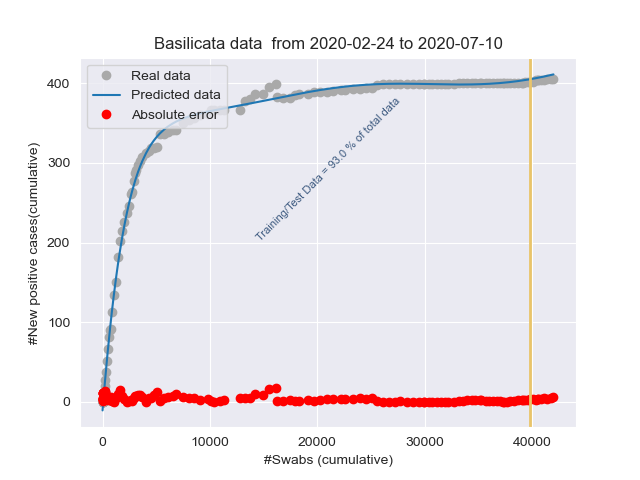
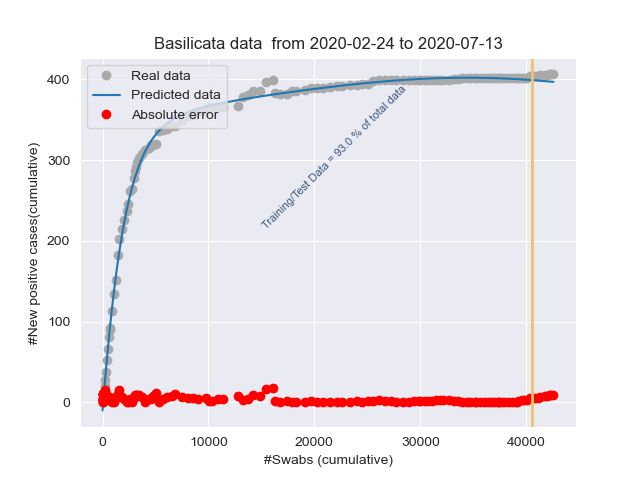
Add files via upload

diff --git a/stat_Friuli Venezia Giulia.html b/stat_Friuli Venezia Giulia.html
@@ -1,1 +1,1 @@
-<!DOCTYPE html><html lang="it"><head><title>Results</title><meta charset="utf-8"><meta name="viewport" content="width=device-width, initial-scale=1"><link rel="stylesheet" href="bootstrap.min.css"><script src="https://ajax.googleapis.com/ajax/libs/jquery/3.4.1/jquery.min.js"></script><script src="https://maxcdn.bootstrapcdn.com/bootstrap/3.4.1/js/bootstrap.min.js"></script></head><body><h3>Day: 2020-07-10</h3><p class="lead my-3">New positive cases: <b>1</b></p><p class="lead my-3">Variation of positive cases: <b>0.0%</b></p><p class="lead my-3">Number of swabs: <b>2353.0</b></p><p class="lead my-3">Variation of swabs: <b>1.14%</b></p><p class="lead my-3">Postive cases/Swabs: <b>0.04 %</b></p><p class="lead my-3">Number of people admitted to Intensive care: <b>0</b></p><p class="lead my-3">Number of recovered people: <b>-2.0</b></p><p class="lead my-3">Number of dead people: <b>0.0</b></p><h3>Total</h3><p class="lead my-3">Population of  Friuli Venezia Giulia: <b>1215220</b> <a href="http://dati.istat.it/Index.aspx?QueryId=18548" target="_blank">ISTAT data</a></p><p class="lead my-3">Total number of positive cases from 2020-02-24 00:00:00 to 2020-07-10: <b> 3333</b></p><p class="lead my-3">Total number of swabs from 2020-02-24 00:00:00 to 2020-07-10: <b> 209161</b></p><p class="lead my-3">TotalSwabs/Population: <b> 17.21%</b></p></body></html>
+<!DOCTYPE html><html lang="it"><head><title>Results</title><meta charset="utf-8"><meta name="viewport" content="width=device-width, initial-scale=1"><link rel="stylesheet" href="bootstrap.min.css"><script src="https://ajax.googleapis.com/ajax/libs/jquery/3.4.1/jquery.min.js"></script><script src="https://maxcdn.bootstrapcdn.com/bootstrap/3.4.1/js/bootstrap.min.js"></script></head><body><h3>Day: 2020-07-13</h3><p class="lead my-3">New positive cases: <b>0</b></p><p class="lead my-3">Variation of positive cases: <b>0.0%</b></p><p class="lead my-3">Number of swabs: <b>518.0</b></p><p class="lead my-3">Variation of swabs: <b>0.24%</b></p><p class="lead my-3">Postive cases/Swabs: <b>0.0 %</b></p><p class="lead my-3">Number of people admitted to Intensive care: <b>0</b></p><p class="lead my-3">Number of recovered people: <b>-1.0</b></p><p class="lead my-3">Number of dead people: <b>0.0</b></p><h3>Total</h3><p class="lead my-3">Population of  Friuli Venezia Giulia: <b>1215220</b> <a href="http://dati.istat.it/Index.aspx?QueryId=18548" target="_blank">ISTAT data</a></p><p class="lead my-3">Total number of positive cases from 2020-02-24 00:00:00 to 2020-07-13: <b> 3335</b></p><p class="lead my-3">Total number of swabs from 2020-02-24 00:00:00 to 2020-07-13: <b> 212714</b></p><p class="lead my-3">TotalSwabs/Population: <b> 17.5%</b></p></body></html>

diff --git a/stat_Emilia-Romagna.html b/stat_Emilia-Romagna.html
@@ -1,1 +1,1 @@
-<!DOCTYPE html><html lang="it"><head><title>Results</title><meta charset="utf-8"><meta name="viewport" content="width=device-width, initial-scale=1"><link rel="stylesheet" href="bootstrap.min.css"><script src="https://ajax.googleapis.com/ajax/libs/jquery/3.4.1/jquery.min.js"></script><script src="https://maxcdn.bootstrapcdn.com/bootstrap/3.4.1/js/bootstrap.min.js"></script></head><body><h3>Day: 2020-07-10</h3><p class="lead my-3">New positive cases: <b>53</b></p><p class="lead my-3">Variation of positive cases: <b>82.76%</b></p><p class="lead my-3">Number of swabs: <b>4182.0</b></p><p class="lead my-3">Variation of swabs: <b>0.78%</b></p><p class="lead my-3">Postive cases/Swabs: <b>1.27 %</b></p><p class="lead my-3">Number of people admitted to Intensive care: <b>10</b></p><p class="lead my-3">Number of recovered people: <b>6.0</b></p><p class="lead my-3">Number of dead people: <b>0.0</b></p><h3>Total</h3><p class="lead my-3">Population of  Emilia-Romagna: <b>4459477</b> <a href="http://dati.istat.it/Index.aspx?QueryId=18548" target="_blank">ISTAT data</a></p><p class="lead my-3">Total number of positive cases from 2020-02-24 00:00:00 to 2020-07-10: <b> 28841</b></p><p class="lead my-3">Total number of swabs from 2020-02-24 00:00:00 to 2020-07-10: <b> 540614</b></p><p class="lead my-3">TotalSwabs/Population: <b> 12.12%</b></p></body></html>
+<!DOCTYPE html><html lang="it"><head><title>Results</title><meta charset="utf-8"><meta name="viewport" content="width=device-width, initial-scale=1"><link rel="stylesheet" href="bootstrap.min.css"><script src="https://ajax.googleapis.com/ajax/libs/jquery/3.4.1/jquery.min.js"></script><script src="https://maxcdn.bootstrapcdn.com/bootstrap/3.4.1/js/bootstrap.min.js"></script></head><body><h3>Day: 2020-07-13</h3><p class="lead my-3">New positive cases: <b>18</b></p><p class="lead my-3">Variation of positive cases: <b>-74.65%</b></p><p class="lead my-3">Number of swabs: <b>2007.0</b></p><p class="lead my-3">Variation of swabs: <b>0.37%</b></p><p class="lead my-3">Postive cases/Swabs: <b>0.9 %</b></p><p class="lead my-3">Number of people admitted to Intensive care: <b>9</b></p><p class="lead my-3">Number of recovered people: <b>5.0</b></p><p class="lead my-3">Number of dead people: <b>0.0</b></p><h3>Total</h3><p class="lead my-3">Population of  Emilia-Romagna: <b>4459477</b> <a href="http://dati.istat.it/Index.aspx?QueryId=18548" target="_blank">ISTAT data</a></p><p class="lead my-3">Total number of positive cases from 2020-02-24 00:00:00 to 2020-07-13: <b> 28977</b></p><p class="lead my-3">Total number of swabs from 2020-02-24 00:00:00 to 2020-07-13: <b> 549870</b></p><p class="lead my-3">TotalSwabs/Population: <b> 12.33%</b></p></body></html>

diff --git a/stat_Lombardia.html b/stat_Lombardia.html
@@ -1,1 +1,1 @@
-<!DOCTYPE html><html lang="it"><head><title>Results</title><meta charset="utf-8"><meta name="viewport" content="width=device-width, initial-scale=1"><link rel="stylesheet" href="bootstrap.min.css"><script src="https://ajax.googleapis.com/ajax/libs/jquery/3.4.1/jquery.min.js"></script><script src="https://maxcdn.bootstrapcdn.com/bootstrap/3.4.1/js/bootstrap.min.js"></script></head><body><h3>Day: 2020-07-10</h3><p class="lead my-3">New positive cases: <b>135</b></p><p class="lead my-3">Variation of positive cases: <b>13.45%</b></p><p class="lead my-3">Number of swabs: <b>11505.0</b></p><p class="lead my-3">Variation of swabs: <b>1.03%</b></p><p class="lead my-3">Postive cases/Swabs: <b>1.17 %</b></p><p class="lead my-3">Number of people admitted to Intensive care: <b>27</b></p><p class="lead my-3">Number of recovered people: <b>145.0</b></p><p class="lead my-3">Number of dead people: <b>6.0</b></p><h3>Total</h3><p class="lead my-3">Population of  Lombardia: <b>10060574</b> <a href="http://dati.istat.it/Index.aspx?QueryId=18548" target="_blank">ISTAT data</a></p><p class="lead my-3">Total number of positive cases from 2020-02-24 00:00:00 to 2020-07-10: <b> 94899</b></p><p class="lead my-3">Total number of swabs from 2020-02-24 00:00:00 to 2020-07-10: <b> 1126332</b></p><p class="lead my-3">TotalSwabs/Population: <b> 11.2%</b></p></body></html>
+<!DOCTYPE html><html lang="it"><head><title>Results</title><meta charset="utf-8"><meta name="viewport" content="width=device-width, initial-scale=1"><link rel="stylesheet" href="bootstrap.min.css"><script src="https://ajax.googleapis.com/ajax/libs/jquery/3.4.1/jquery.min.js"></script><script src="https://maxcdn.bootstrapcdn.com/bootstrap/3.4.1/js/bootstrap.min.js"></script></head><body><h3>Day: 2020-07-13</h3><p class="lead my-3">New positive cases: <b>94</b></p><p class="lead my-3">Variation of positive cases: <b>22.08%</b></p><p class="lead my-3">Number of swabs: <b>6482.0</b></p><p class="lead my-3">Variation of swabs: <b>0.57%</b></p><p class="lead my-3">Postive cases/Swabs: <b>1.45 %</b></p><p class="lead my-3">Number of people admitted to Intensive care: <b>30</b></p><p class="lead my-3">Number of recovered people: <b>78.0</b></p><p class="lead my-3">Number of dead people: <b>9.0</b></p><h3>Total</h3><p class="lead my-3">Population of  Lombardia: <b>10060574</b> <a href="http://dati.istat.it/Index.aspx?QueryId=18548" target="_blank">ISTAT data</a></p><p class="lead my-3">Total number of positive cases from 2020-02-24 00:00:00 to 2020-07-13: <b> 95137</b></p><p class="lead my-3">Total number of swabs from 2020-02-24 00:00:00 to 2020-07-13: <b> 1149414</b></p><p class="lead my-3">TotalSwabs/Population: <b> 11.42%</b></p></body></html>

diff --git a/stat_Italy.html b/stat_Italy.html
@@ -1,1 +1,1 @@
-<!DOCTYPE html><html lang="it"><head><title>Results</title><meta charset="utf-8"><meta name="viewport" content="width=device-width, initial-scale=1"><link rel="stylesheet" href="bootstrap.min.css"><script src="https://ajax.googleapis.com/ajax/libs/jquery/3.4.1/jquery.min.js"></script><script src="https://maxcdn.bootstrapcdn.com/bootstrap/3.4.1/js/bootstrap.min.js"></script></head><body><h3>Day: 2020-07-10</h3><p class="lead my-3">New positive cases: <b>276</b></p><p class="lead my-3">Variation of positive cases: <b>20.52%</b></p><p class="lead my-3">Number of swabs: <b>47953.0</b></p><p class="lead my-3">Variation of swabs: <b>0.83%</b></p><p class="lead my-3">Postive cases/Swabs: <b>0.58 %</b></p><p class="lead my-3">Number of people admitted to Intensive care: <b>65</b></p><p class="lead my-3">Number of recovered people: <b>295.0</b></p><p class="lead my-3">Number of dead people: <b>12.0</b></p><h3>Total</h3><p class="lead my-3">Population of  Italy: <b>60359546</b> <a href="http://dati.istat.it/Index.aspx?QueryId=18548" target="_blank">ISTAT data</a></p><p class="lead my-3">Total number of positive cases from 2020-02-24 00:00:00 to 2020-07-10: <b> 242677</b></p><p class="lead my-3">Total number of swabs from 2020-02-24 00:00:00 to 2020-07-10: <b> 5854621</b></p><p class="lead my-3">TotalSwabs/Population: <b> 9.7%</b></p></body></html>
+<!DOCTYPE html><html lang="it"><head><title>Results</title><meta charset="utf-8"><meta name="viewport" content="width=device-width, initial-scale=1"><link rel="stylesheet" href="bootstrap.min.css"><script src="https://ajax.googleapis.com/ajax/libs/jquery/3.4.1/jquery.min.js"></script><script src="https://maxcdn.bootstrapcdn.com/bootstrap/3.4.1/js/bootstrap.min.js"></script></head><body><h3>Day: 2020-07-13</h3><p class="lead my-3">New positive cases: <b>169</b></p><p class="lead my-3">Variation of positive cases: <b>-27.78%</b></p><p class="lead my-3">Number of swabs: <b>23933.0</b></p><p class="lead my-3">Variation of swabs: <b>0.4%</b></p><p class="lead my-3">Postive cases/Swabs: <b>0.71 %</b></p><p class="lead my-3">Number of people admitted to Intensive care: <b>65</b></p><p class="lead my-3">Number of recovered people: <b>178.0</b></p><p class="lead my-3">Number of dead people: <b>13.0</b></p><h3>Total</h3><p class="lead my-3">Population of  Italy: <b>60359546</b> <a href="http://dati.istat.it/Index.aspx?QueryId=18548" target="_blank">ISTAT data</a></p><p class="lead my-3">Total number of positive cases from 2020-02-24 00:00:00 to 2020-07-13: <b> 243268</b></p><p class="lead my-3">Total number of swabs from 2020-02-24 00:00:00 to 2020-07-13: <b> 5962744</b></p><p class="lead my-3">TotalSwabs/Population: <b> 9.88%</b></p></body></html>

diff --git a/stat_Piemonte.html b/stat_Piemonte.html
@@ -1,1 +1,1 @@
-<!DOCTYPE html><html lang="it"><head><title>Results</title><meta charset="utf-8"><meta name="viewport" content="width=device-width, initial-scale=1"><link rel="stylesheet" href="bootstrap.min.css"><script src="https://ajax.googleapis.com/ajax/libs/jquery/3.4.1/jquery.min.js"></script><script src="https://maxcdn.bootstrapcdn.com/bootstrap/3.4.1/js/bootstrap.min.js"></script></head><body><h3>Day: 2020-07-10</h3><p class="lead my-3">New positive cases: <b>10</b></p><p class="lead my-3">Variation of positive cases: <b>-37.5%</b></p><p class="lead my-3">Number of swabs: <b>2766.0</b></p><p class="lead my-3">Variation of swabs: <b>0.63%</b></p><p class="lead my-3">Postive cases/Swabs: <b>0.36 %</b></p><p class="lead my-3">Number of people admitted to Intensive care: <b>9</b></p><p class="lead my-3">Number of recovered people: <b>57.0</b></p><p class="lead my-3">Number of dead people: <b>2.0</b></p><h3>Total</h3><p class="lead my-3">Population of  Piemonte: <b>4356406</b> <a href="http://dati.istat.it/Index.aspx?QueryId=18548" target="_blank">ISTAT data</a></p><p class="lead my-3">Total number of positive cases from 2020-02-24 00:00:00 to 2020-07-10: <b> 31485</b></p><p class="lead my-3">Total number of swabs from 2020-02-24 00:00:00 to 2020-07-10: <b> 444443</b></p><p class="lead my-3">TotalSwabs/Population: <b> 10.2%</b></p></body></html>
+<!DOCTYPE html><html lang="it"><head><title>Results</title><meta charset="utf-8"><meta name="viewport" content="width=device-width, initial-scale=1"><link rel="stylesheet" href="bootstrap.min.css"><script src="https://ajax.googleapis.com/ajax/libs/jquery/3.4.1/jquery.min.js"></script><script src="https://maxcdn.bootstrapcdn.com/bootstrap/3.4.1/js/bootstrap.min.js"></script></head><body><h3>Day: 2020-07-13</h3><p class="lead my-3">New positive cases: <b>6</b></p><p class="lead my-3">Variation of positive cases: <b>50.0%</b></p><p class="lead my-3">Number of swabs: <b>1133.0</b></p><p class="lead my-3">Variation of swabs: <b>0.25%</b></p><p class="lead my-3">Postive cases/Swabs: <b>0.53 %</b></p><p class="lead my-3">Number of people admitted to Intensive care: <b>9</b></p><p class="lead my-3">Number of recovered people: <b>10.0</b></p><p class="lead my-3">Number of dead people: <b>1.0</b></p><h3>Total</h3><p class="lead my-3">Population of  Piemonte: <b>4356406</b> <a href="http://dati.istat.it/Index.aspx?QueryId=18548" target="_blank">ISTAT data</a></p><p class="lead my-3">Total number of positive cases from 2020-02-24 00:00:00 to 2020-07-13: <b> 31504</b></p><p class="lead my-3">Total number of swabs from 2020-02-24 00:00:00 to 2020-07-13: <b> 450251</b></p><p class="lead my-3">TotalSwabs/Population: <b> 10.34%</b></p></body></html>

diff --git a/stat_Liguria.html b/stat_Liguria.html
@@ -1,1 +1,1 @@
-<!DOCTYPE html><html lang="it"><head><title>Results</title><meta charset="utf-8"><meta name="viewport" content="width=device-width, initial-scale=1"><link rel="stylesheet" href="bootstrap.min.css"><script src="https://ajax.googleapis.com/ajax/libs/jquery/3.4.1/jquery.min.js"></script><script src="https://maxcdn.bootstrapcdn.com/bootstrap/3.4.1/js/bootstrap.min.js"></script></head><body><h3>Day: 2020-07-10</h3><p class="lead my-3">New positive cases: <b>15</b></p><p class="lead my-3">Variation of positive cases: <b>275.0%</b></p><p class="lead my-3">Number of swabs: <b>1563.0</b></p><p class="lead my-3">Variation of swabs: <b>0.98%</b></p><p class="lead my-3">Postive cases/Swabs: <b>0.96 %</b></p><p class="lead my-3">Number of people admitted to Intensive care: <b>1</b></p><p class="lead my-3">Number of recovered people: <b>29.0</b></p><p class="lead my-3">Number of dead people: <b>0.0</b></p><h3>Total</h3><p class="lead my-3">Population of  Liguria: <b>1550640</b> <a href="http://dati.istat.it/Index.aspx?QueryId=18548" target="_blank">ISTAT data</a></p><p class="lead my-3">Total number of positive cases from 2020-02-24 00:00:00 to 2020-07-10: <b> 10025</b></p><p class="lead my-3">Total number of swabs from 2020-02-24 00:00:00 to 2020-07-10: <b> 160464</b></p><p class="lead my-3">TotalSwabs/Population: <b> 10.35%</b></p></body></html>
+<!DOCTYPE html><html lang="it"><head><title>Results</title><meta charset="utf-8"><meta name="viewport" content="width=device-width, initial-scale=1"><link rel="stylesheet" href="bootstrap.min.css"><script src="https://ajax.googleapis.com/ajax/libs/jquery/3.4.1/jquery.min.js"></script><script src="https://maxcdn.bootstrapcdn.com/bootstrap/3.4.1/js/bootstrap.min.js"></script></head><body><h3>Day: 2020-07-13</h3><p class="lead my-3">New positive cases: <b>1</b></p><p class="lead my-3">Variation of positive cases: <b>inf%</b></p><p class="lead my-3">Number of swabs: <b>390.0</b></p><p class="lead my-3">Variation of swabs: <b>0.24%</b></p><p class="lead my-3">Postive cases/Swabs: <b>0.26 %</b></p><p class="lead my-3">Number of people admitted to Intensive care: <b>0</b></p><p class="lead my-3">Number of recovered people: <b>22.0</b></p><p class="lead my-3">Number of dead people: <b>0.0</b></p><h3>Total</h3><p class="lead my-3">Population of  Liguria: <b>1550640</b> <a href="http://dati.istat.it/Index.aspx?QueryId=18548" target="_blank">ISTAT data</a></p><p class="lead my-3">Total number of positive cases from 2020-02-24 00:00:00 to 2020-07-13: <b> 10032</b></p><p class="lead my-3">Total number of swabs from 2020-02-24 00:00:00 to 2020-07-13: <b> 163409</b></p><p class="lead my-3">TotalSwabs/Population: <b> 10.54%</b></p></body></html>

diff --git a/stat_P.A. Bolzano.html b/stat_P.A. Bolzano.html
@@ -1,1 +1,1 @@
-<!DOCTYPE html><html lang="it"><head><title>Results</title><meta charset="utf-8"><meta name="viewport" content="width=device-width, initial-scale=1"><link rel="stylesheet" href="bootstrap.min.css"><script src="https://ajax.googleapis.com/ajax/libs/jquery/3.4.1/jquery.min.js"></script><script src="https://maxcdn.bootstrapcdn.com/bootstrap/3.4.1/js/bootstrap.min.js"></script></head><body><h3>Day: 2020-07-10</h3><p class="lead my-3">New positive cases: <b>5</b></p><p class="lead my-3">Variation of positive cases: <b>66.67%</b></p><p class="lead my-3">Number of swabs: <b>634.0</b></p><p class="lead my-3">Variation of swabs: <b>0.71%</b></p><p class="lead my-3">Postive cases/Swabs: <b>0.79 %</b></p><p class="lead my-3">Number of people admitted to Intensive care: <b>0</b></p><p class="lead my-3">Number of recovered people: <b>3.0</b></p><p class="lead my-3">Number of dead people: <b>0.0</b></p><h3>Total</h3><p class="lead my-3">Population of  P.A. Bolzano: <b>531178</b> <a href="http://dati.istat.it/Index.aspx?QueryId=18548" target="_blank">ISTAT data</a></p><p class="lead my-3">Total number of positive cases from 2020-02-24 00:00:00 to 2020-07-10: <b> 2657</b></p><p class="lead my-3">Total number of swabs from 2020-02-24 00:00:00 to 2020-07-10: <b> 89711</b></p><p class="lead my-3">TotalSwabs/Population: <b> 16.89%</b></p></body></html>
+<!DOCTYPE html><html lang="it"><head><title>Results</title><meta charset="utf-8"><meta name="viewport" content="width=device-width, initial-scale=1"><link rel="stylesheet" href="bootstrap.min.css"><script src="https://ajax.googleapis.com/ajax/libs/jquery/3.4.1/jquery.min.js"></script><script src="https://maxcdn.bootstrapcdn.com/bootstrap/3.4.1/js/bootstrap.min.js"></script></head><body><h3>Day: 2020-07-13</h3><p class="lead my-3">New positive cases: <b>7</b></p><p class="lead my-3">Variation of positive cases: <b>40.0%</b></p><p class="lead my-3">Number of swabs: <b>174.0</b></p><p class="lead my-3">Variation of swabs: <b>0.19%</b></p><p class="lead my-3">Postive cases/Swabs: <b>4.02 %</b></p><p class="lead my-3">Number of people admitted to Intensive care: <b>0</b></p><p class="lead my-3">Number of recovered people: <b>0.0</b></p><p class="lead my-3">Number of dead people: <b>0.0</b></p><h3>Total</h3><p class="lead my-3">Population of  P.A. Bolzano: <b>531178</b> <a href="http://dati.istat.it/Index.aspx?QueryId=18548" target="_blank">ISTAT data</a></p><p class="lead my-3">Total number of positive cases from 2020-02-24 00:00:00 to 2020-07-13: <b> 2672</b></p><p class="lead my-3">Total number of swabs from 2020-02-24 00:00:00 to 2020-07-13: <b> 91340</b></p><p class="lead my-3">TotalSwabs/Population: <b> 17.2%</b></p></body></html>

diff --git a/stat_Veneto.html b/stat_Veneto.html
@@ -1,1 +1,1 @@
-<!DOCTYPE html><html lang="it"><head><title>Results</title><meta charset="utf-8"><meta name="viewport" content="width=device-width, initial-scale=1"><link rel="stylesheet" href="bootstrap.min.css"><script src="https://ajax.googleapis.com/ajax/libs/jquery/3.4.1/jquery.min.js"></script><script src="https://maxcdn.bootstrapcdn.com/bootstrap/3.4.1/js/bootstrap.min.js"></script></head><body><h3>Day: 2020-07-10</h3><p class="lead my-3">New positive cases: <b>11</b></p><p class="lead my-3">Variation of positive cases: <b>10.0%</b></p><p class="lead my-3">Number of swabs: <b>8346.0</b></p><p class="lead my-3">Variation of swabs: <b>0.8%</b></p><p class="lead my-3">Postive cases/Swabs: <b>0.13 %</b></p><p class="lead my-3">Number of people admitted to Intensive care: <b>3</b></p><p class="lead my-3">Number of recovered people: <b>7.0</b></p><p class="lead my-3">Number of dead people: <b>2.0</b></p><h3>Total</h3><p class="lead my-3">Population of  Veneto: <b>4905854</b> <a href="http://dati.istat.it/Index.aspx?QueryId=18548" target="_blank">ISTAT data</a></p><p class="lead my-3">Total number of positive cases from 2020-02-24 00:00:00 to 2020-07-10: <b> 19368</b></p><p class="lead my-3">Total number of swabs from 2020-02-24 00:00:00 to 2020-07-10: <b> 1048535</b></p><p class="lead my-3">TotalSwabs/Population: <b> 21.37%</b></p></body></html>
+<!DOCTYPE html><html lang="it"><head><title>Results</title><meta charset="utf-8"><meta name="viewport" content="width=device-width, initial-scale=1"><link rel="stylesheet" href="bootstrap.min.css"><script src="https://ajax.googleapis.com/ajax/libs/jquery/3.4.1/jquery.min.js"></script><script src="https://maxcdn.bootstrapcdn.com/bootstrap/3.4.1/js/bootstrap.min.js"></script></head><body><h3>Day: 2020-07-13</h3><p class="lead my-3">New positive cases: <b>6</b></p><p class="lead my-3">Variation of positive cases: <b>-62.5%</b></p><p class="lead my-3">Number of swabs: <b>4479.0</b></p><p class="lead my-3">Variation of swabs: <b>0.42%</b></p><p class="lead my-3">Postive cases/Swabs: <b>0.13 %</b></p><p class="lead my-3">Number of people admitted to Intensive care: <b>3</b></p><p class="lead my-3">Number of recovered people: <b>2.0</b></p><p class="lead my-3">Number of dead people: <b>0.0</b></p><h3>Total</h3><p class="lead my-3">Population of  Veneto: <b>4905854</b> <a href="http://dati.istat.it/Index.aspx?QueryId=18548" target="_blank">ISTAT data</a></p><p class="lead my-3">Total number of positive cases from 2020-02-24 00:00:00 to 2020-07-13: <b> 19400</b></p><p class="lead my-3">Total number of swabs from 2020-02-24 00:00:00 to 2020-07-13: <b> 1069923</b></p><p class="lead my-3">TotalSwabs/Population: <b> 21.81%</b></p></body></html>

diff --git a/stat_Toscana.html b/stat_Toscana.html
@@ -1,1 +1,1 @@
-<!DOCTYPE html><html lang="it"><head><title>Results</title><meta charset="utf-8"><meta name="viewport" content="width=device-width, initial-scale=1"><link rel="stylesheet" href="bootstrap.min.css"><script src="https://ajax.googleapis.com/ajax/libs/jquery/3.4.1/jquery.min.js"></script><script src="https://maxcdn.bootstrapcdn.com/bootstrap/3.4.1/js/bootstrap.min.js"></script></head><body><h3>Day: 2020-07-10</h3><p class="lead my-3">New positive cases: <b>2</b></p><p class="lead my-3">Variation of positive cases: <b>100.0%</b></p><p class="lead my-3">Number of swabs: <b>2685.0</b></p><p class="lead my-3">Variation of swabs: <b>0.74%</b></p><p class="lead my-3">Postive cases/Swabs: <b>0.07 %</b></p><p class="lead my-3">Number of people admitted to Intensive care: <b>2</b></p><p class="lead my-3">Number of recovered people: <b>8.0</b></p><p class="lead my-3">Number of dead people: <b>1.0</b></p><h3>Total</h3><p class="lead my-3">Population of  Toscana: <b>3729641</b> <a href="http://dati.istat.it/Index.aspx?QueryId=18548" target="_blank">ISTAT data</a></p><p class="lead my-3">Total number of positive cases from 2020-02-24 00:00:00 to 2020-07-10: <b> 10316</b></p><p class="lead my-3">Total number of swabs from 2020-02-24 00:00:00 to 2020-07-10: <b> 366018</b></p><p class="lead my-3">TotalSwabs/Population: <b> 9.81%</b></p></body></html>
+<!DOCTYPE html><html lang="it"><head><title>Results</title><meta charset="utf-8"><meta name="viewport" content="width=device-width, initial-scale=1"><link rel="stylesheet" href="bootstrap.min.css"><script src="https://ajax.googleapis.com/ajax/libs/jquery/3.4.1/jquery.min.js"></script><script src="https://maxcdn.bootstrapcdn.com/bootstrap/3.4.1/js/bootstrap.min.js"></script></head><body><h3>Day: 2020-07-13</h3><p class="lead my-3">New positive cases: <b>4</b></p><p class="lead my-3">Variation of positive cases: <b>300.0%</b></p><p class="lead my-3">Number of swabs: <b>1581.0</b></p><p class="lead my-3">Variation of swabs: <b>0.43%</b></p><p class="lead my-3">Postive cases/Swabs: <b>0.25 %</b></p><p class="lead my-3">Number of people admitted to Intensive care: <b>3</b></p><p class="lead my-3">Number of recovered people: <b>0.0</b></p><p class="lead my-3">Number of dead people: <b>0.0</b></p><h3>Total</h3><p class="lead my-3">Population of  Toscana: <b>3729641</b> <a href="http://dati.istat.it/Index.aspx?QueryId=18548" target="_blank">ISTAT data</a></p><p class="lead my-3">Total number of positive cases from 2020-02-24 00:00:00 to 2020-07-13: <b> 10326</b></p><p class="lead my-3">Total number of swabs from 2020-02-24 00:00:00 to 2020-07-13: <b> 372853</b></p><p class="lead my-3">TotalSwabs/Population: <b> 10.0%</b></p></body></html>

diff --git a/stat_Campania.html b/stat_Campania.html
@@ -1,1 +1,1 @@
-<!DOCTYPE html><html lang="it"><head><title>Results</title><meta charset="utf-8"><meta name="viewport" content="width=device-width, initial-scale=1"><link rel="stylesheet" href="bootstrap.min.css"><script src="https://ajax.googleapis.com/ajax/libs/jquery/3.4.1/jquery.min.js"></script><script src="https://maxcdn.bootstrapcdn.com/bootstrap/3.4.1/js/bootstrap.min.js"></script></head><body><h3>Day: 2020-07-10</h3><p class="lead my-3">New positive cases: <b>7</b></p><p class="lead my-3">Variation of positive cases: <b>40.0%</b></p><p class="lead my-3">Number of swabs: <b>1508.0</b></p><p class="lead my-3">Variation of swabs: <b>0.51%</b></p><p class="lead my-3">Postive cases/Swabs: <b>0.46 %</b></p><p class="lead my-3">Number of people admitted to Intensive care: <b>0</b></p><p class="lead my-3">Number of recovered people: <b>2.0</b></p><p class="lead my-3">Number of dead people: <b>0.0</b></p><h3>Total</h3><p class="lead my-3">Population of  Campania: <b>5801692</b> <a href="http://dati.istat.it/Index.aspx?QueryId=18548" target="_blank">ISTAT data</a></p><p class="lead my-3">Total number of positive cases from 2020-02-24 00:00:00 to 2020-07-10: <b> 4762</b></p><p class="lead my-3">Total number of swabs from 2020-02-24 00:00:00 to 2020-07-10: <b> 299725</b></p><p class="lead my-3">TotalSwabs/Population: <b> 5.17%</b></p></body></html>
+<!DOCTYPE html><html lang="it"><head><title>Results</title><meta charset="utf-8"><meta name="viewport" content="width=device-width, initial-scale=1"><link rel="stylesheet" href="bootstrap.min.css"><script src="https://ajax.googleapis.com/ajax/libs/jquery/3.4.1/jquery.min.js"></script><script src="https://maxcdn.bootstrapcdn.com/bootstrap/3.4.1/js/bootstrap.min.js"></script></head><body><h3>Day: 2020-07-13</h3><p class="lead my-3">New positive cases: <b>7</b></p><p class="lead my-3">Variation of positive cases: <b>133.33%</b></p><p class="lead my-3">Number of swabs: <b>530.0</b></p><p class="lead my-3">Variation of swabs: <b>0.17%</b></p><p class="lead my-3">Postive cases/Swabs: <b>1.32 %</b></p><p class="lead my-3">Number of people admitted to Intensive care: <b>0</b></p><p class="lead my-3">Number of recovered people: <b>0.0</b></p><p class="lead my-3">Number of dead people: <b>0.0</b></p><h3>Total</h3><p class="lead my-3">Population of  Campania: <b>5801692</b> <a href="http://dati.istat.it/Index.aspx?QueryId=18548" target="_blank">ISTAT data</a></p><p class="lead my-3">Total number of positive cases from 2020-02-24 00:00:00 to 2020-07-13: <b> 4779</b></p><p class="lead my-3">Total number of swabs from 2020-02-24 00:00:00 to 2020-07-13: <b> 303419</b></p><p class="lead my-3">TotalSwabs/Population: <b> 5.23%</b></p></body></html>

diff --git a/stat_P.A. Trento.html b/stat_P.A. Trento.html
@@ -1,1 +1,1 @@
-<!DOCTYPE html><html lang="it"><head><title>Results</title><meta charset="utf-8"><meta name="viewport" content="width=device-width, initial-scale=1"><link rel="stylesheet" href="bootstrap.min.css"><script src="https://ajax.googleapis.com/ajax/libs/jquery/3.4.1/jquery.min.js"></script><script src="https://maxcdn.bootstrapcdn.com/bootstrap/3.4.1/js/bootstrap.min.js"></script></head><body><h3>Day: 2020-07-10</h3><p class="lead my-3">New positive cases: <b>3</b></p><p class="lead my-3">Variation of positive cases: <b>inf%</b></p><p class="lead my-3">Number of swabs: <b>1226.0</b></p><p class="lead my-3">Variation of swabs: <b>0.94%</b></p><p class="lead my-3">Postive cases/Swabs: <b>0.24 %</b></p><p class="lead my-3">Number of people admitted to Intensive care: <b>0</b></p><p class="lead my-3">Number of recovered people: <b>9.0</b></p><p class="lead my-3">Number of dead people: <b>0.0</b></p><h3>Total</h3><p class="lead my-3">Population of  P.A. Trento: <b>541098</b> <a href="http://dati.istat.it/Index.aspx?QueryId=18548" target="_blank">ISTAT data</a></p><p class="lead my-3">Total number of positive cases from 2020-02-24 00:00:00 to 2020-07-10: <b> 4492</b></p><p class="lead my-3">Total number of swabs from 2020-02-24 00:00:00 to 2020-07-10: <b> 131980</b></p><p class="lead my-3">TotalSwabs/Population: <b> 24.39%</b></p></body></html>
+<!DOCTYPE html><html lang="it"><head><title>Results</title><meta charset="utf-8"><meta name="viewport" content="width=device-width, initial-scale=1"><link rel="stylesheet" href="bootstrap.min.css"><script src="https://ajax.googleapis.com/ajax/libs/jquery/3.4.1/jquery.min.js"></script><script src="https://maxcdn.bootstrapcdn.com/bootstrap/3.4.1/js/bootstrap.min.js"></script></head><body><h3>Day: 2020-07-13</h3><p class="lead my-3">New positive cases: <b>0</b></p><p class="lead my-3">Variation of positive cases: <b>0.0%</b></p><p class="lead my-3">Number of swabs: <b>97.0</b></p><p class="lead my-3">Variation of swabs: <b>0.07%</b></p><p class="lead my-3">Postive cases/Swabs: <b>0.0 %</b></p><p class="lead my-3">Number of people admitted to Intensive care: <b>0</b></p><p class="lead my-3">Number of recovered people: <b>0.0</b></p><p class="lead my-3">Number of dead people: <b>0.0</b></p><h3>Total</h3><p class="lead my-3">Population of  P.A. Trento: <b>541098</b> <a href="http://dati.istat.it/Index.aspx?QueryId=18548" target="_blank">ISTAT data</a></p><p class="lead my-3">Total number of positive cases from 2020-02-24 00:00:00 to 2020-07-13: <b> 4494</b></p><p class="lead my-3">Total number of swabs from 2020-02-24 00:00:00 to 2020-07-13: <b> 134529</b></p><p class="lead my-3">TotalSwabs/Population: <b> 24.86%</b></p></body></html>

diff --git a/stat_Lazio.html b/stat_Lazio.html
@@ -1,1 +1,1 @@
-<!DOCTYPE html><html lang="it"><head><title>Results</title><meta charset="utf-8"><meta name="viewport" content="width=device-width, initial-scale=1"><link rel="stylesheet" href="bootstrap.min.css"><script src="https://ajax.googleapis.com/ajax/libs/jquery/3.4.1/jquery.min.js"></script><script src="https://maxcdn.bootstrapcdn.com/bootstrap/3.4.1/js/bootstrap.min.js"></script></head><body><h3>Day: 2020-07-10</h3><p class="lead my-3">New positive cases: <b>23</b></p><p class="lead my-3">Variation of positive cases: <b>-17.86%</b></p><p class="lead my-3">Number of swabs: <b>2470.0</b></p><p class="lead my-3">Variation of swabs: <b>0.69%</b></p><p class="lead my-3">Postive cases/Swabs: <b>0.93 %</b></p><p class="lead my-3">Number of people admitted to Intensive care: <b>13</b></p><p class="lead my-3">Number of recovered people: <b>10.0</b></p><p class="lead my-3">Number of dead people: <b>1.0</b></p><h3>Total</h3><p class="lead my-3">Population of  Lazio: <b>5879082</b> <a href="http://dati.istat.it/Index.aspx?QueryId=18548" target="_blank">ISTAT data</a></p><p class="lead my-3">Total number of positive cases from 2020-02-24 00:00:00 to 2020-07-10: <b> 8274</b></p><p class="lead my-3">Total number of swabs from 2020-02-24 00:00:00 to 2020-07-10: <b> 362312</b></p><p class="lead my-3">TotalSwabs/Population: <b> 6.16%</b></p></body></html>
+<!DOCTYPE html><html lang="it"><head><title>Results</title><meta charset="utf-8"><meta name="viewport" content="width=device-width, initial-scale=1"><link rel="stylesheet" href="bootstrap.min.css"><script src="https://ajax.googleapis.com/ajax/libs/jquery/3.4.1/jquery.min.js"></script><script src="https://maxcdn.bootstrapcdn.com/bootstrap/3.4.1/js/bootstrap.min.js"></script></head><body><h3>Day: 2020-07-13</h3><p class="lead my-3">New positive cases: <b>24</b></p><p class="lead my-3">Variation of positive cases: <b>20.0%</b></p><p class="lead my-3">Number of swabs: <b>3001.0</b></p><p class="lead my-3">Variation of swabs: <b>0.82%</b></p><p class="lead my-3">Postive cases/Swabs: <b>0.8 %</b></p><p class="lead my-3">Number of people admitted to Intensive care: <b>11</b></p><p class="lead my-3">Number of recovered people: <b>44.0</b></p><p class="lead my-3">Number of dead people: <b>1.0</b></p><h3>Total</h3><p class="lead my-3">Population of  Lazio: <b>5879082</b> <a href="http://dati.istat.it/Index.aspx?QueryId=18548" target="_blank">ISTAT data</a></p><p class="lead my-3">Total number of positive cases from 2020-02-24 00:00:00 to 2020-07-13: <b> 8337</b></p><p class="lead my-3">Total number of swabs from 2020-02-24 00:00:00 to 2020-07-13: <b> 370462</b></p><p class="lead my-3">TotalSwabs/Population: <b> 6.3%</b></p></body></html>
